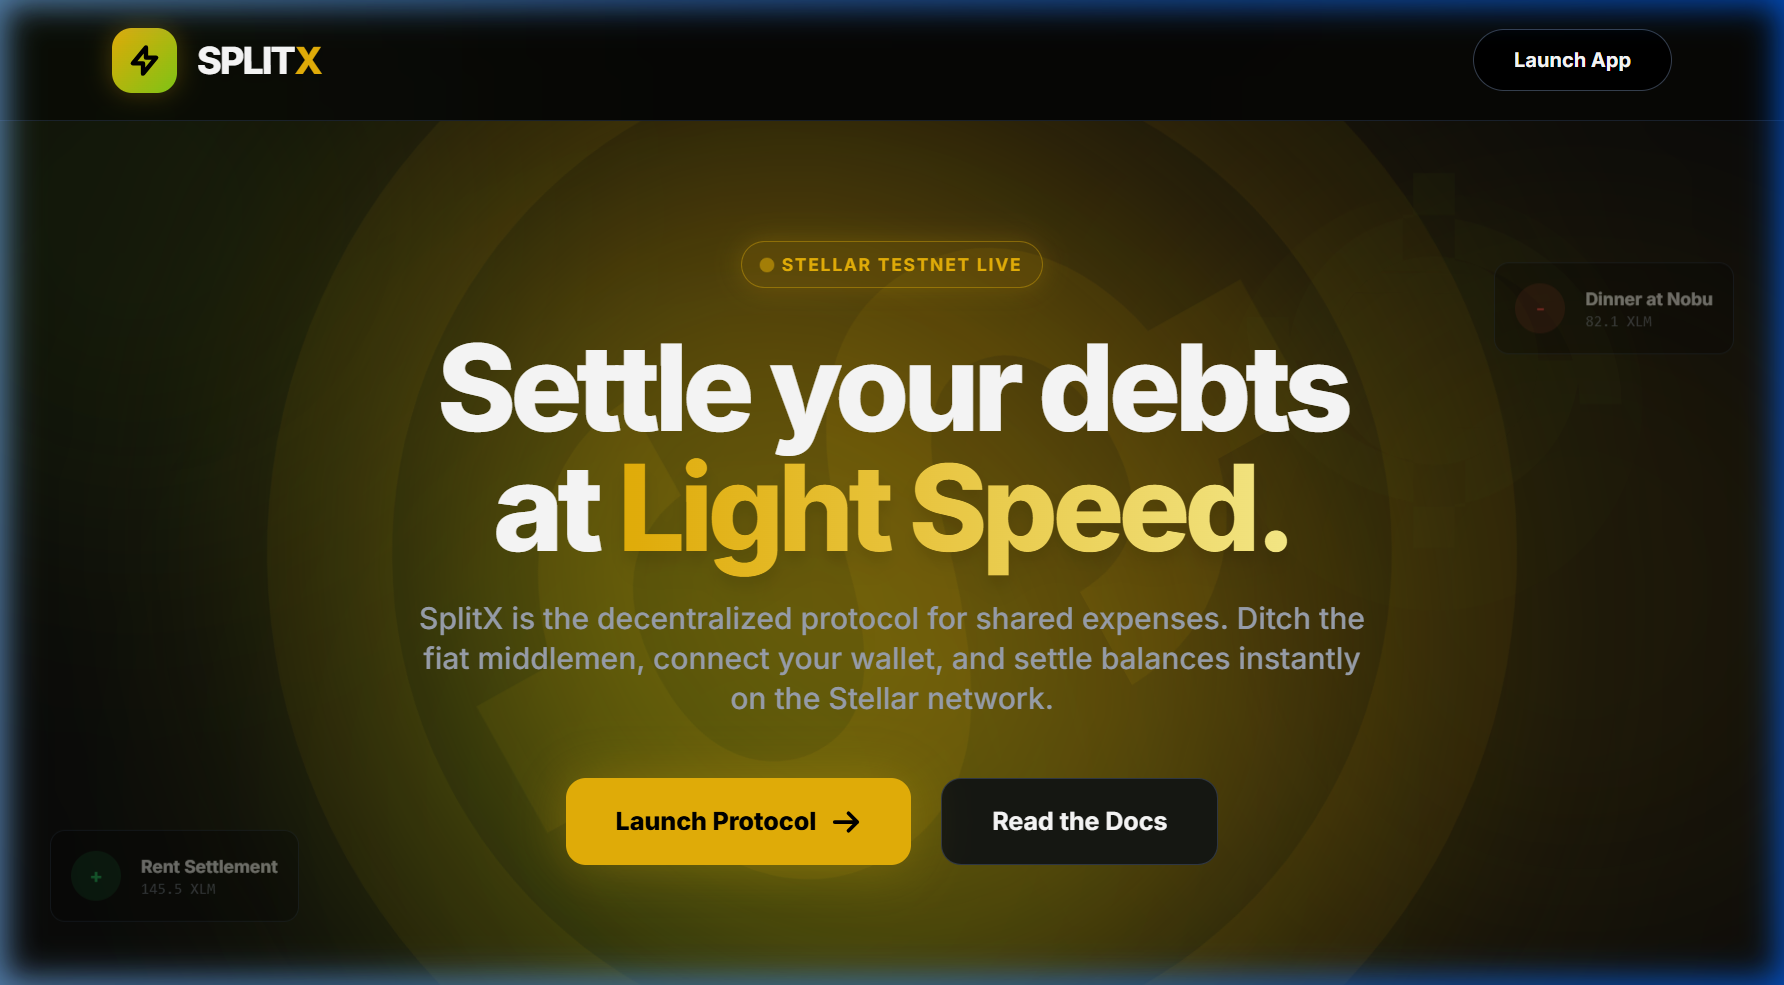
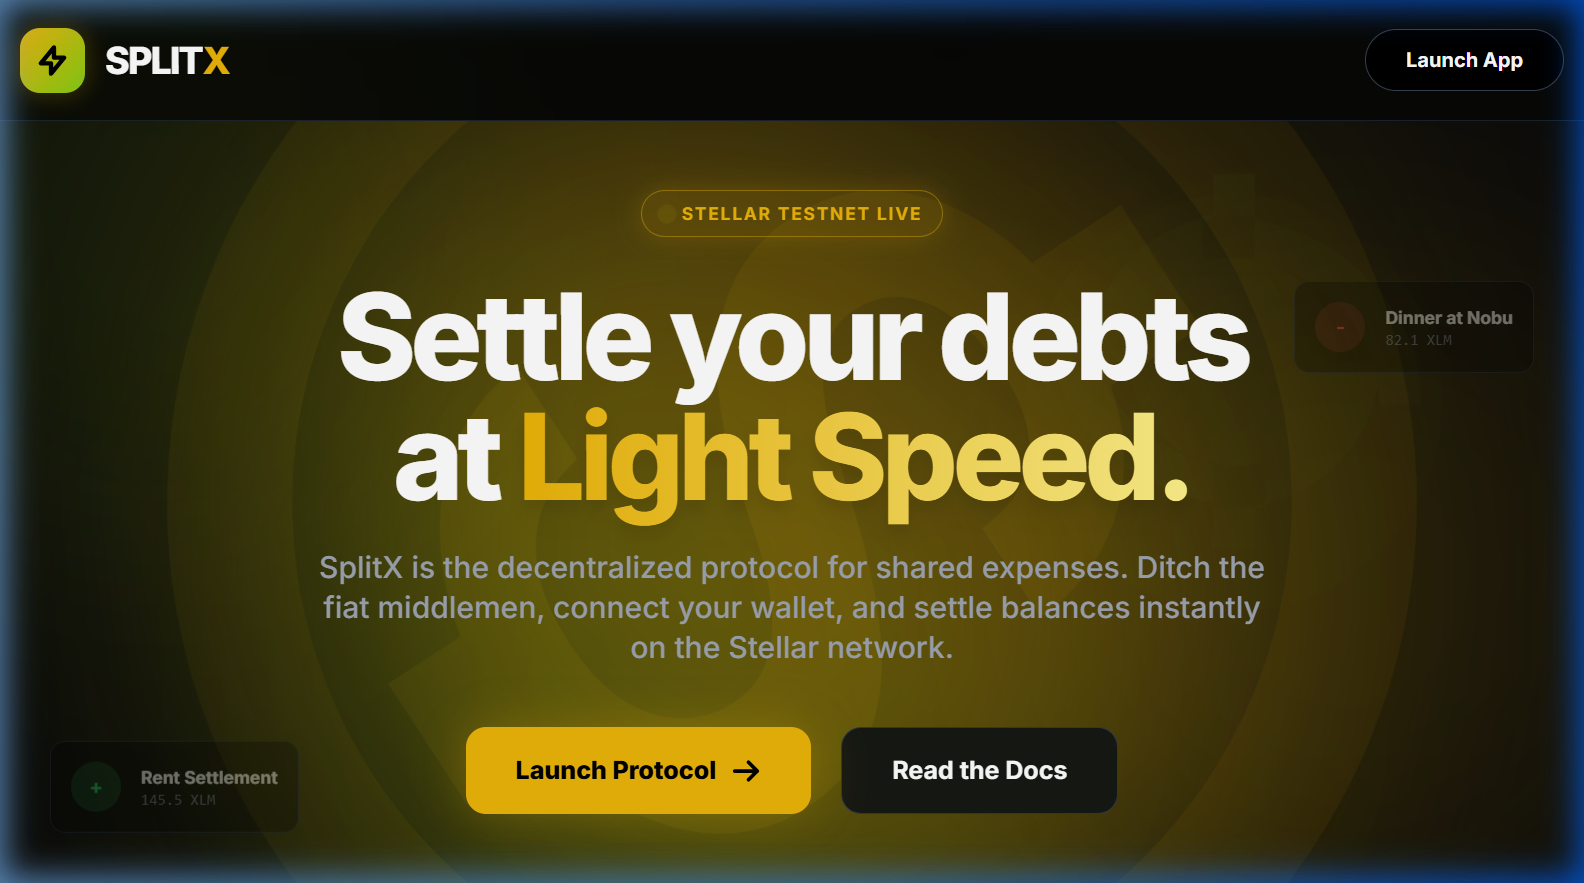
docs: add wallet modal screenshot and contract call TX hash to README
Required Yellow Belt submission items:
- Screenshot: wallet options (docs/screenshots/04_wallet_connect_modal.png)
  Shows Freighter, Albedo, and xBull wallet options in the Connect Wallet modal
- Deployed contract address: CCMWZ3HNOQYLMW52LBJKBYBUVLABUA5GXTCRS43UPGDTUMKVXEJT46CN
- Contract call TX hash: 2d4e640102b72a8f12a14e9a937912a3eb61f0dd35bf6eaa2e253bc5953fb54e
  (verifiable at stellar.expert/explorer/testnet)
  Invoked log_expense() with 25 XLM, returned expense count = 1

README updates:
- Added wallet modal screenshot section in Screenshots
- Updated Yellow Belt checklist to match exact submission requirements
- Added contract call TX hash to Deployed Contract Details table
- Screenshot embedded directly in Yellow Belt section for visibility
- Updated landing page + dashboard screenshots to 1280px wide

diff --git a/README.md b/README.md
@@ -69,6 +69,14 @@ The main dashboard before connecting a wallet. The Ledger Entry form is locked w
   <img src="docs/screenshots/02_dashboard.png" alt="Dashboard - Disconnected" width="90%" />
 </p>
 
+### Wallet Selection — Connect Wallet Modal
+
+Clicking "Connect Wallet" opens the multi-wallet selection modal powered by **StellarWalletsKit v2**. Users can choose from **Freighter** (official SDF extension), **Albedo** (web-based, no extension needed), or **xBull Wallet** (advanced multi-account). A direct install link is shown for users without a wallet.
+
+<p align="center">
+  <img src="docs/screenshots/04_wallet_connect_modal.png" alt="Wallet Connect Modal — Freighter, Albedo, xBull" width="70%" />
+</p>
+
 ### Dashboard — Full Form & Settlement
 
 Scrolled view showing the complete Ledger Entry form (Transaction Subject, Gross Amount in XLM, Split Count, Receiver Node address), the Compute Ledger button, and the Settlement Action card.
@@ -79,13 +87,13 @@ Scrolled view showing the complete Ledger Entry form (Transaction Subject, Gross
 
 ### Wallet Connected + Balance Displayed
 
-> After connecting Freighter, the navbar shows the truncated public key with a live green indicator. The Wallet Treasury widget displays the XLM balance and Stellar Testnet network badge.
+> After connecting Freighter, Albedo, or xBull — the navbar shows the wallet provider name + truncated public key with a live green indicator. The Wallet Treasury widget displays the XLM balance and Stellar Testnet network badge.
 
-*(Connect your Freighter wallet on the [live demo](https://split-x-three.vercel.app/) to see this in action)*
+*(Connect your wallet on the [live demo](https://split-x-three.vercel.app/) to see this in action)*
 
 ### Successful Transaction + Result
 
-> After computing the ledger and clicking "Execute Settlement", the transaction is signed by Freighter and submitted to the network. A success modal displays the transaction hash with a direct "View on Explorer" link to [Stellar Expert](https://stellar.expert/explorer/testnet).
+> After computing the ledger and clicking "Execute Settlement", the transaction is signed by the connected wallet and submitted to the network. A success modal displays both the **payment TX hash** and the **Soroban contract call TX hash** with direct "View on Explorer" links.
 
 *(Execute a testnet settlement on the [live demo](https://split-x-three.vercel.app/) to see the full transaction flow)*
 
@@ -427,26 +435,37 @@ SplitX uses a custom dark theme with carefully curated design tokens:
 
 | Requirement | Status | Details |
 |---|---|---|
+| Public GitHub repository | ✅ | [github.com/Mrinmoy-programmer07/SplitX](https://github.com/Mrinmoy-programmer07/SplitX) |
+| README with setup instructions | ✅ | See [Getting Started](#-getting-started) section |
+| Minimum 2+ meaningful commits | ✅ | 7 commits (see git log) |
+| Live demo link | ✅ | [split-x-three.vercel.app](https://split-x-three.vercel.app/) |
+| Screenshot: wallet options available | ✅ | See screenshot below ↓ |
+| Deployed contract address | ✅ | `CCMWZ3HNOQYLMW52LBJKBYBUVLABUA5GXTCRS43UPGDTUMKVXEJT46CN` |
+| Transaction hash of contract call | ✅ | [`2d4e6401...`](https://stellar.expert/explorer/testnet/tx/2d4e640102b72a8f12a14e9a937912a3eb61f0dd35bf6eaa2e253bc5953fb54e) |
 | Multi-wallet support (3+ wallets) | ✅ | Freighter, Albedo, xBull via StellarWalletsKit v2 |
-| Screenshot: wallet options available | ✅ | WalletSelectModal with all 3 wallet options |
 | 3 error types handled | ✅ | wallet_not_found / rejected / insufficient_balance |
-| Soroban contract deployed on testnet | ✅ | `CCMWZ3HNOQYLMW52LBJKBYBUVLABUA5GXTCRS43UPGDTUMKVXEJT46CN` |
 | Contract called from frontend | ✅ | `log_expense()` called on every settlement |
 | Transaction status visible | ✅ | 6-step progress indicator + elapsed timer |
-| Minimum 2+ meaningful commits | ✅ | 6 commits (see git log) |
-| Public GitHub repository | ✅ | |
-| Live demo link | ✅ | [split-x-three.vercel.app](https://split-x-three.vercel.app/) |
 
-### Deployed Contract
+### 📸 Screenshot: Wallet Options
+
+<p align="center">
+  <img src="docs/screenshots/04_wallet_connect_modal.png" alt="Wallet Connect Modal — Freighter, Albedo, xBull" width="60%" />
+</p>
+
+*The Connect Wallet modal shows all 3 supported wallets: Freighter (official SDF extension), Albedo (web-based), and xBull (advanced multi-account).*
+
+### 🔗 Deployed Contract Details
 
 | Field | Value |
 |---|---|
-| **Contract Address** | `CCMWZ3HNOQYLMW52LBJKBYBUVLABUA5GXTCRS43UPGDTUMKVXEJT46CN` |
+| **Contract Address** | [`CCMWZ3HNOQYLMW52LBJKBYBUVLABUA5GXTCRS43UPGDTUMKVXEJT46CN`](https://stellar.expert/explorer/testnet/contract/CCMWZ3HNOQYLMW52LBJKBYBUVLABUA5GXTCRS43UPGDTUMKVXEJT46CN) |
 | **Network** | Stellar Testnet |
-| **Deploy TX** | [`c8cf87ab...`](https://stellar.expert/explorer/testnet/tx/c8cf87ab0bedf6ba451dd9068bed4ce3573e60e637e43946ed5667707e51be66) |
-| **Explorer** | [View Contract](https://stellar.expert/explorer/testnet/contract/CCMWZ3HNOQYLMW52LBJKBYBUVLABUA5GXTCRS43UPGDTUMKVXEJT46CN) |
+| **Deploy TX Hash** | [`c8cf87ab0bedf6ba...`](https://stellar.expert/explorer/testnet/tx/c8cf87ab0bedf6ba451dd9068bed4ce3573e60e637e43946ed5667707e51be66) |
+| **Contract Call TX Hash** | [`2d4e640102b72a8f...`](https://stellar.expert/explorer/testnet/tx/2d4e640102b72a8f12a14e9a937912a3eb61f0dd35bf6eaa2e253bc5953fb54e) |
 | **Functions** | `log_expense(from, amount, timestamp) → u32`, `get_count() → u32` |
-| **Storage** | Persistent ledger entry (500,000 ledger TTL) |
+| **Storage** | Persistent ledger (500,000 ledger TTL) |
+| **Events** | Emits `expense_logged` event on every call |
 
 ---
 
